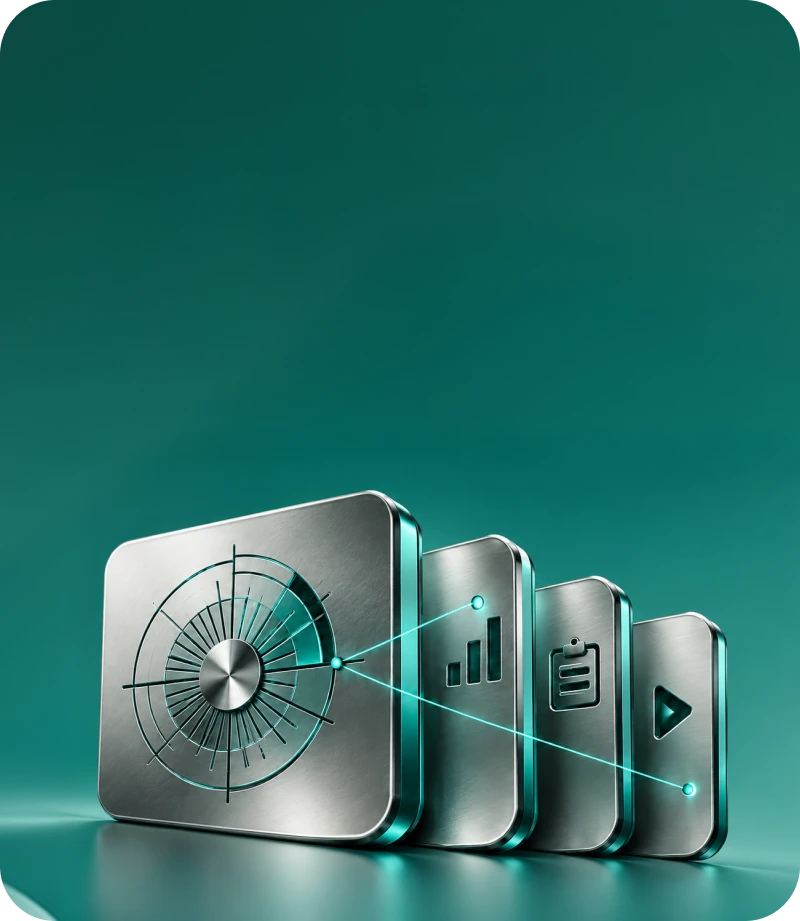
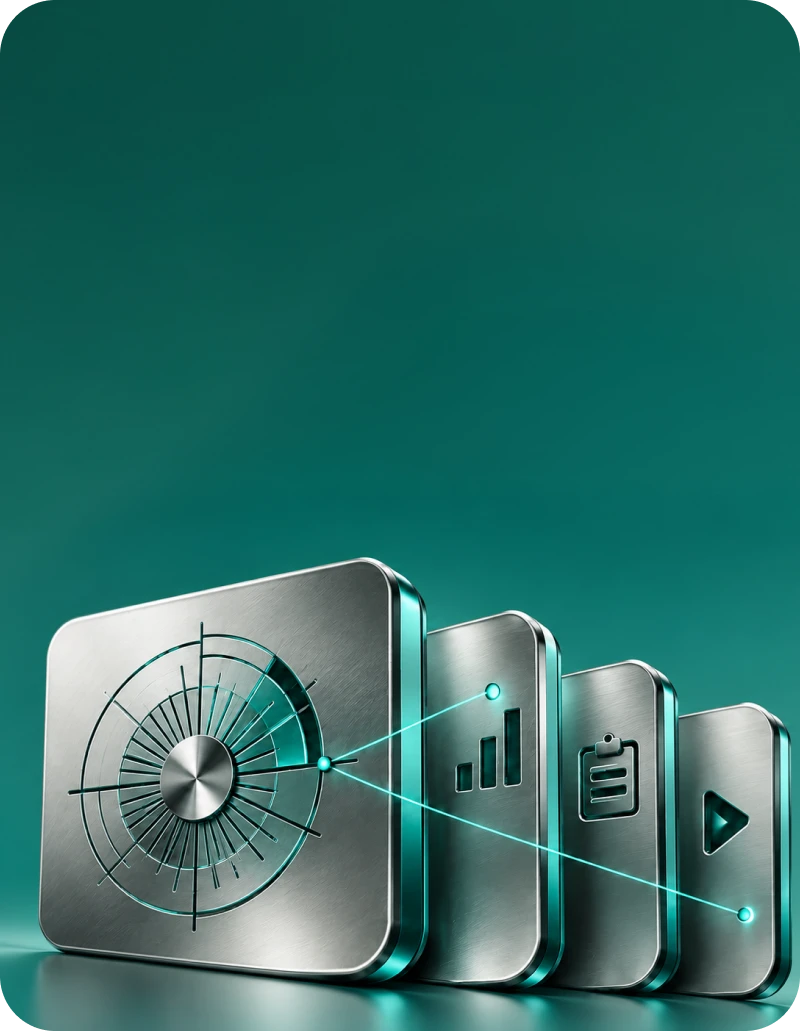
Troca a imagem do mockup para eliminar o corte no topo
A imagem anterior (herdada do overlay pixel-exato do Figma) precisava
de object-fit:cover object-position:bottom pra caber no aspect-ratio
800/808 do frame, cortando os 113px de topo da própria foto — na
prática isso deixava uma linha de corte visível bem em cima do
mockup. Nova imagem enviada pelo usuário (800x1031) já vem com espaço
vazio embutido suficiente; exibida na proporção nativa (sem crop
algum), mesmo padrão de .nr1-panel__mockup/.climate-cta__mockup.
Máscara de gradiente no topo dissolve a emenda com o fundo do card
(o teal dessa foto é uma sombra mais escura que --color-teal-dark).

Claude-Session: https://claude.ai/code/session_01CiyMTxVjrXGsaEHonQwbqa

Changed region(s): [[0.0, 0.5168, 1.0, 1.0]]

diff --git a/css/sections.css b/css/sections.css
@@ -1804,13 +1804,24 @@
     display: block;
     width: 100%;
     margin-top: 20px;
+    /* Feathers the image's own top edge into the card's gradient
+       background — its gradient starts a shade darker than
+       --color-teal-dark, so a hard edge would show a faint seam
+       otherwise (same technique as .climate-cta__mockup). */
+    -webkit-mask-image: linear-gradient(to bottom, transparent 0%, black 12%);
+    mask-image: linear-gradient(to bottom, transparent 0%, black 12%);
   }
   .trust-card__bg {
+    /* No object-fit crop: the new photo (sent directly by the client
+       to replace the previous cropped one, which had a visible hard
+       edge where the top of the mockup got cut off) already has its
+       own generous empty band built in — shown at its native
+       800/1031 ratio, same as .nr1-panel__mockup and
+       .climate-cta__mockup, instead of being cropped to fit a
+       shorter box. */
     position: static;
     width: 100%;
     height: auto;
-    aspect-ratio: 800 / 808;
-    object-position: bottom;
   }
   .trust-card__inner {
     position: static;
